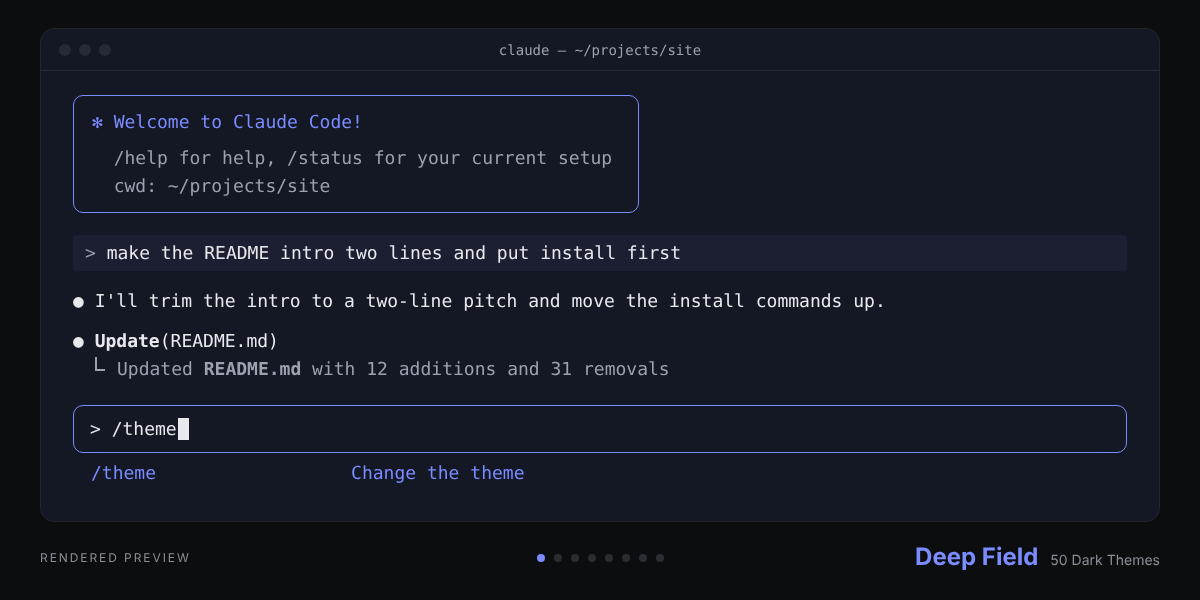
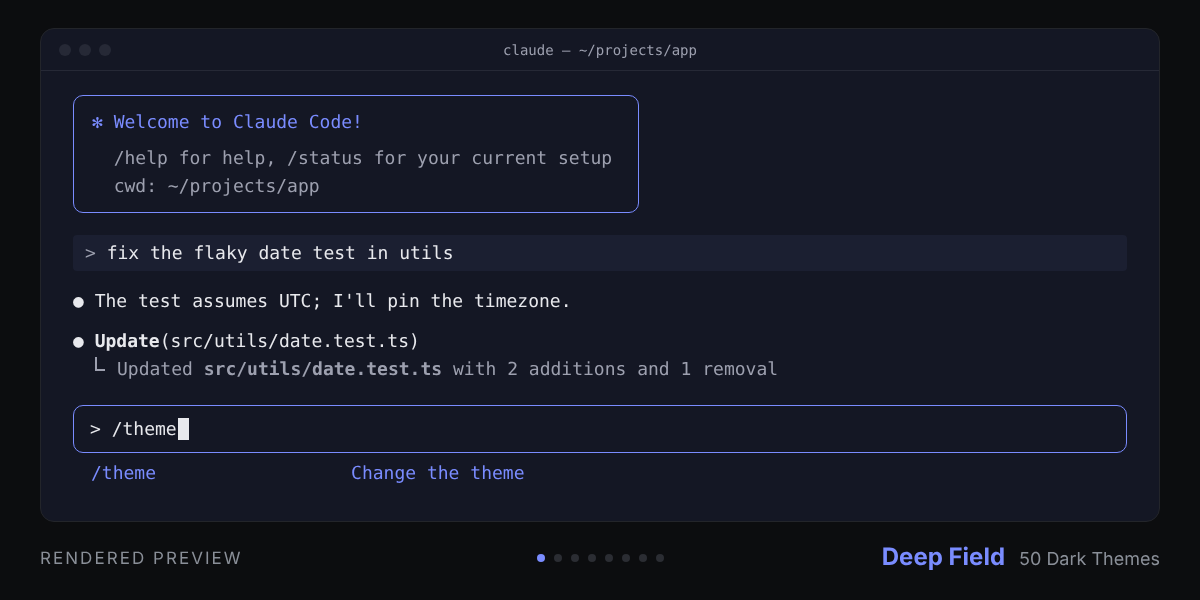
First screen: one command per block, restart step, slower hero, plain session
Applies the review of the new first screen: each /plugin command sits in
its own copyable block, with the version requirement before them and the
restart before /theme; the pitch matches what the commands install; the
first-screen link goes to the free theme index, and the storefront link
moves to the paid-packs section. The old #quick-install anchor still
resolves. The hero holds each theme 2 s (3 s on the first), shows a
neutral coding exchange, and its "Rendered preview" label is readable at
README width. The other install routes are folded into one section.

Claude-Session: https://claude.ai/code/session_01S3YbDaq3RsR7TyBKxQX7KP

diff --git a/scripts/build-readme-hero.py b/scripts/build-readme-hero.py
@@ -5,7 +5,8 @@
 
 writes two files from the theme JSON files, nothing typed by hand:
 
-    assets/hero.gif   one frame per theme in HERO_THEMES, FRAME_DELAY_CS each, looping
+    assets/hero.gif   one frame per theme in HERO_THEMES, FRAME_DELAY_CS each (the first
+                      FIRST_FRAME_DELAY_CS), looping
     assets/hero.png   the first frame on its own, the still fallback
 
 Every color in a frame's session panel is a theme override (claude, text,
@@ -43,7 +44,8 @@ from html import escape
 
 ROOT = os.path.dirname(os.path.dirname(os.path.abspath(__file__)))
 WIDTH, HEIGHT = 1200, 600
-FRAME_DELAY_CS = 120  # GIF delays are in hundredths of a second: 1.2 s per theme.
+FRAME_DELAY_CS = 200  # GIF delays are in hundredths of a second: 2 s per theme,
+FIRST_FRAME_DELAY_CS = 300  # and 3 s on the first, which is also the still image.
 # Eight free themes, spread around the color wheel and alternating warm and
 # cool, with two from Vol. 2. The first is also the still image.
 HERO_THEMES = [
@@ -176,13 +178,13 @@ body{position:relative;font-family:"DejaVu Sans Mono",Menlo,Consolas,monospace;f
 .cursor{display:inline-block;width:11px;height:22px;background:var(--text);vertical-align:-5px;margin-left:1px}
 .sugg{color:var(--suggestion);padding:6px 0 0 18px}
 .foot{position:absolute;left:40px;right:40px;top:538px;height:40px;display:flex;align-items:center;justify-content:space-between;font-family:Inter,"DejaVu Sans",sans-serif;white-space:nowrap}
-.label{font-size:12px;letter-spacing:.16em;text-transform:uppercase;color:LABEL;width:330px}
+.label{font-size:17px;letter-spacing:.12em;text-transform:uppercase;color:LABEL;width:440px}
 .dots{display:flex;gap:9px}
 .dots i{width:8px;height:8px;border-radius:50%;background:DOT_OFF;display:block}
 .dots i.on{background:var(--claude)}
-.name{width:330px;text-align:right}
+.name{width:440px;text-align:right}
 .name b{font-size:24px;font-weight:700;color:var(--claude)}
-.name span{font-size:14px;color:LABEL;margin-left:12px}
+.name span{font-size:18px;color:LABEL;margin-left:14px}
 """.replace("BACKDROP", BACKDROP).replace("LABEL", LABEL).replace("DOT_OFF", DOT_OFF)
 
 
@@ -197,12 +199,12 @@ def frame_html(theme, index, count):
         '<div class="acc">✻ Welcome to Claude Code!</div>'
         '<div class="gap"></div>'
         '<div class="mut">  /help for help, /status for your current setup</div>'
-        '<div class="mut">  cwd: ~/projects/site</div>'
+        '<div class="mut">  cwd: ~/projects/app</div>'
         "</div>"
-        '<div class="user"><span class="mut">&gt;</span> make the README intro two lines and put install first</div>'
-        '<div class="reply">● I\'ll trim the intro to a two-line pitch and move the install commands up.</div>'
-        '<div class="tool">● <b>Update</b>(README.md)</div>'
-        '<div class="mut"><span class="elbow"></span>Updated <b>README.md</b> with 12 additions and 31 removals</div>'
+        '<div class="user"><span class="mut">&gt;</span> fix the flaky date test in utils</div>'
+        '<div class="reply">● The test assumes UTC; I\'ll pin the timezone.</div>'
+        '<div class="tool">● <b>Update</b>(src/utils/date.test.ts)</div>'
+        '<div class="mut"><span class="elbow"></span>Updated <b>src/utils/date.test.ts</b> with 2 additions and 1 removal</div>'
         '<div class="prompt">&gt; /theme<span class="cursor"></span></div>'
         '<div class="sugg">/theme                  Change the theme</div>'
     )
@@ -210,7 +212,7 @@ def frame_html(theme, index, count):
         "<!doctype html><html><head><meta charset=\"utf-8\">"
         f"<style>{FRAME_CSS}</style></head>"
         f'<body style="{variables}">'
-        '<div class="win"><div class="bar"><i></i><i></i><i></i><b>claude — ~/projects/site</b></div>'
+        '<div class="win"><div class="bar"><i></i><i></i><i></i><b>claude — ~/projects/app</b></div>'
         f'<div class="body">{session}</div></div>'
         '<div class="foot"><div class="label">Rendered preview</div>'
         f'<div class="dots">{dots}</div>'
@@ -416,12 +418,13 @@ def sub_blocks(data):
     return b"".join(bytes([len(data[i : i + 255])]) + data[i : i + 255] for i in range(0, len(data), 255)) + b"\x00"
 
 
-def write_gif(path, frames, width, height, delay_cs):
-    """frames: [(palette of 256 RGB tuples, index bytes)], each with its own color table."""
+def write_gif(path, frames, width, height, delays_cs):
+    """frames: [(palette of 256 RGB tuples, index bytes)], each with its own color table;
+    delays_cs: each frame's delay in hundredths of a second."""
     out = bytearray(b"GIF89a")
     out += struct.pack("<HHBBB", width, height, 0x00, 0, 0)  # no global color table
     out += b"\x21\xff\x0bNETSCAPE2.0\x03\x01\x00\x00\x00"  # loop forever
-    for palette, indices in frames:
+    for (palette, indices), delay_cs in zip(frames, delays_cs, strict=True):
         out += b"\x21\xf9\x04" + struct.pack("<BHBB", 0x04, delay_cs, 0, 0)  # do not dispose, no transparency
         out += b"\x2c" + struct.pack("<HHHHB", 0, 0, width, height, 0x87)  # local table of 2^(7+1) colors
         out += bytes(channel for color in palette for channel in color)
@@ -473,7 +476,8 @@ def main():
         os.makedirs(os.path.join(ROOT, "assets"), exist_ok=True)
         gif_path = os.path.join(ROOT, "assets/hero.gif")
         png_path = os.path.join(ROOT, "assets/hero.png")
-        write_gif(gif_path, frames, WIDTH, HEIGHT, FRAME_DELAY_CS)
+        delays = [FIRST_FRAME_DELAY_CS] + [FRAME_DELAY_CS] * (len(frames) - 1)
+        write_gif(gif_path, frames, WIDTH, HEIGHT, delays)
         shutil.copyfile(first_png, png_path)
     finally:
         shutil.rmtree(work, ignore_errors=True)

diff --git a/README.md b/README.md
@@ -1,9 +1,9 @@
 # 50 dark themes for Claude Code
 
-[![Verify themes and shop](https://github.com/notgabriels-sys/claude-code-50-dark-themes/actions/workflows/verify.yml/badge.svg)](https://github.com/notgabriels-sys/claude-code-50-dark-themes/actions/workflows/verify.yml)
+[![verify](https://img.shields.io/github/actions/workflow/status/notgabriels-sys/claude-code-50-dark-themes/verify.yml?branch=main&label=verify)](https://github.com/notgabriels-sys/claude-code-50-dark-themes/actions/workflows/verify.yml)
 [![License: MIT](https://img.shields.io/badge/license-MIT-blue.svg)](LICENSE)
 
-**62 hand-tuned dark themes for Claude Code's `/theme` picker** (the 50 plus 12 in Vol. 2), free and MIT licensed.
+**Free dark themes for Claude Code's `/theme` picker: 50 in the main pack, 12 more in Vol. 2.**
 
 Every palette is contrast-checked against its terminal background and has a matched terminal color scheme.
 
@@ -12,77 +12,59 @@ Every palette is contrast-checked against its terminal background and has a matc
   <img src="assets/hero.gif" alt="Rendered preview of a Claude Code session in real theme colors: the welcome line in the theme's accent, a prompt, a reply, a tool result, the prompt box with /theme typed into it, and the theme's name, on its recommended terminal background. The animation cycles through eight of the free themes (Deep Field, Ember, Aurora Borealis, Neon Noir, Lagoon, Acid, Ultraviolet and Graphite); the still image shows Deep Field.">
 </picture>
 
-## Install
+## <span id="quick-install--claude-code-plugin"></span>Install
 
-Type these two commands inside Claude Code:
+Needs Claude Code v2.1.118 or later (`claude update`). Two commands, typed inside Claude Code,
+install the 50; one more adds Vol. 2.
 
-```text
-/plugin marketplace add notgabriels-sys/claude-code-50-dark-themes
-/plugin install 50-dark-themes@notgabriels-themes
-```
+1. Add the marketplace:
 
-For the 12 Vol. 2 themes as well:
+   ```text
+   /plugin marketplace add notgabriels-sys/claude-code-50-dark-themes
+   ```
 
-```text
-/plugin install dark-themes-vol-2@notgabriels-themes
-```
+2. Install the pack:
 
-Then run `/theme` and pick one. Needs Claude Code v2.1.118 or later.
+   ```text
+   /plugin install 50-dark-themes@notgabriels-themes
+   ```
 
-**→ Visual gallery: [gabs-utilities.com](https://gabs-utilities.com/)** (all 62 themes, previewed in their own colors).
+3. Optional, for the 12 Vol. 2 themes:
 
-## About the plugin
+   ```text
+   /plugin install dark-themes-vol-2@notgabriels-themes
+   ```
 
-Custom themes for the Claude Code CLI. The chat app (claude.ai / desktop) only supports
-Light / Dark / System, so these install into Claude Code, which does support custom themes.
+Restart Claude Code, then run `/theme` and pick one.
 
-Requires **Claude Code v2.1.118 or later**, the release that introduced named custom themes.
+**→ Every theme, previewed: [gabs-utilities.com/theme/](https://gabs-utilities.com/theme/)** (a page for each of the 62, with a specimen in its own colors).
 
-The plugin keeps the pack together and makes updates available through the marketplace. Press `Ctrl+E`
-on a plugin theme if you want an editable copy in `~/.claude/themes/`.
+## Other ways to install
 
-The same install from your terminal, outside Claude Code:
+These are themes for the Claude Code CLI. The chat app (claude.ai / desktop) only supports
+Light / Dark / System, so every route below puts them into Claude Code. Step-by-step install,
+terminal background and troubleshooting guide:
+<https://gabs-utilities.com/claude-code-theme-install-guide.html>
+
+### From your terminal
+
+The same plugin install, run outside Claude Code:
 
 ```bash
 claude plugin marketplace add notgabriels-sys/claude-code-50-dark-themes
 claude plugin install 50-dark-themes@notgabriels-themes
 ```
 
-Step-by-step install, terminal background and troubleshooting guide:
-<https://gabs-utilities.com/claude-code-theme-install-guide.html>
+The plugin keeps the pack together and makes updates available through the marketplace. Press `Ctrl+E`
+on a plugin theme if you want an editable copy in `~/.claude/themes/`.
 
-Every theme also has its own page, with its palette and roles, contrast measured against the
-recommended terminal background, and the install commands: **[gabs-utilities.com/theme/](https://gabs-utilities.com/theme/)**.
+### From the zip
 
 Prefer a zip to a `git clone`? The same 50 themes are a **free download** on the
 **[v1.0.1 GitHub release →](https://github.com/notgabriels-sys/claude-code-50-dark-themes/releases/tag/themes-plugin-v1.0.1)**
-(`claude-code-dark-themes-v1.0.1.zip`). The native-plugin route above is the recommended install.
+(`claude-code-dark-themes-v1.0.1.zip`). The plugin route above is the recommended install.
 
-Prefer to have your agent do it? The **[Claude Code Theme Setup Assistant](https://agensi.io/skills/claude-code-theme-setup-assistant)** (on Agensi)
-picks a theme with you, installs it, checks it shows in `/theme` and gives you the matching terminal
-background. The themes themselves stay free here.
-
-### Dark Themes Vol. 2 — 12 new themes
-
-The same marketplace now carries a free expansion pack with twelve all-new palettes
-(Afterglow, Aurora Borealis, Basalt, Biolume, Cryosleep, Darkroom, Gaslight, Heliotrope,
-Magnetite, Monsoon, Neon Noir, Ozone), held to the same contrast standards:
-
-```bash
-claude plugin install dark-themes-vol-2@notgabriels-themes
-```
-
-## Manual install
-
-```bash
-git clone https://github.com/notgabriels-sys/claude-code-50-dark-themes
-mkdir -p ~/.claude/themes
-cp claude-code-50-dark-themes/*.json ~/.claude/themes/
-```
-
-Then run `/theme` in Claude Code and pick one.
-
-## Install with one command
+### With `install.sh`
 
 ```bash
 git clone https://github.com/notgabriels-sys/claude-code-50-dark-themes
@@ -101,13 +83,23 @@ It copies into `~/.claude/themes/`, and if a file of the same name is already th
 different contents it is backed up once as `<name>.json.bak` before being replaced.
 `--uninstall` removes the themes and leaves the backups alone.
 
-## Install (step by step)
+### By copying the files
 
-1. Update Claude Code to v2.1.118 or later
-2. Create `~/.claude/themes/` if needed, then copy any (or all) of the `.json` files into it
-3. In Claude Code, run `/theme` — each file appears in the list by name
-4. Select one. Edits to the files hot-reload; no restart needed
-   (if `~/.claude/themes/` didn't exist before, restart Claude Code once)
+```bash
+git clone https://github.com/notgabriels-sys/claude-code-50-dark-themes
+mkdir -p ~/.claude/themes
+cp claude-code-50-dark-themes/*.json ~/.claude/themes/
+```
+
+Or copy only the `.json` files you want. In Claude Code, run `/theme`: each file appears in the
+list by name. Edits to the files hot-reload, no restart needed (if `~/.claude/themes/` didn't
+exist before, restart Claude Code once).
+
+### With an agent
+
+The **[Claude Code Theme Setup Assistant](https://agensi.io/skills/claude-code-theme-setup-assistant)** (on Agensi)
+picks a theme with you, installs it, checks it shows in `/theme` and gives you the matching terminal
+background. The themes themselves stay free here.
 
 ## Matching terminal colors
 
@@ -222,6 +214,7 @@ theme is public under MIT.
 
 Same palettes and the same care, applied elsewhere. All one-time purchases, no
 subscriptions, and none of it needed to use the themes above.
+The whole catalog, previewed: **[gabs-utilities.com](https://gabs-utilities.com/)**.
 
 <details>
 <summary>Twelve published packs plus one résumé demo — UI kit, HTML templates, app screens, email, business documents, social, cheatsheets, keycaps, wallpapers, palettes</summary>
